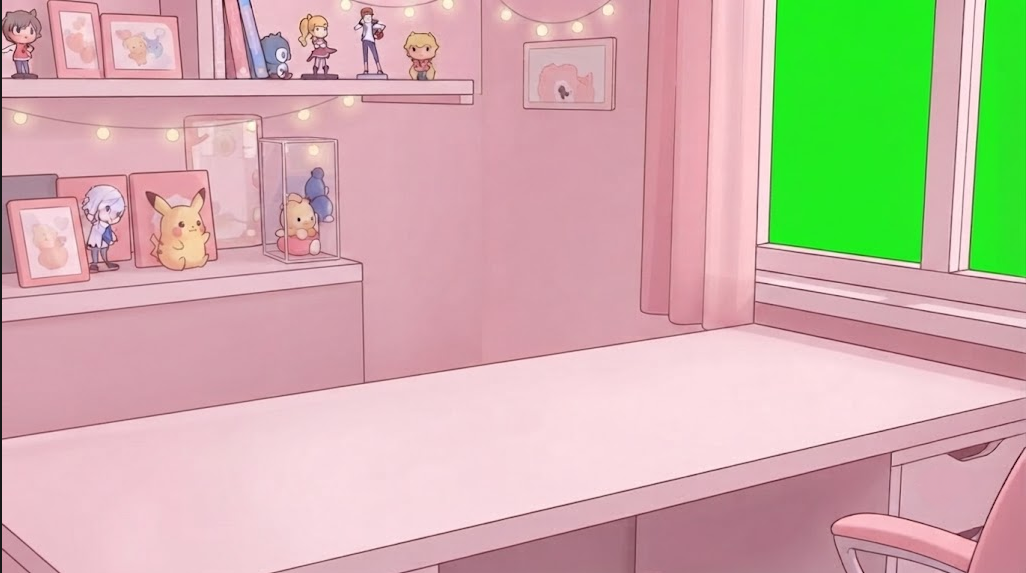
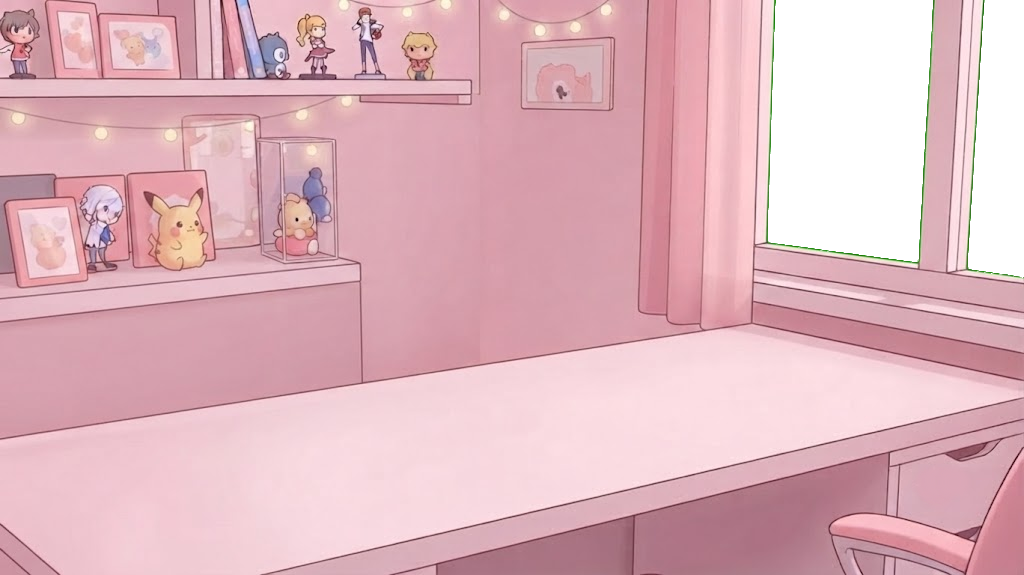
Add files via upload

diff --git a/index.html b/index.html
@@ -57,18 +57,16 @@
             100% { opacity: 0; transform: scale(0.5); }
         }
 
-        /* --- PLANT GRAPHIC (BLUE SCREEN REMOVED VIA BLEND MODE) --- */
+        /* --- PLANT GRAPHIC (CLEAN TRANSPARENCY) --- */
         .plant-element {
             position: absolute;
-            bottom: -20px;
-            left: -20px;
+            bottom: 20px;
+            left: 20px;
             width: 380px;
             z-index: 3;
             pointer-events: none;
             transform-origin: bottom center;
             animation: swayPlant 4s infinite ease-in-out;
-            /* This strips out the blue background box from the image */
-            mix-blend-mode: screen;
         }
 
         @keyframes swayPlant {
@@ -115,7 +113,7 @@
 <body>
 
     <div class="scene">
-        <!-- Swaying Plant with Blue Screen Removed -->
+        <!-- Swaying Plant -->
         <img src="plant.png.png" alt="Plant" class="plant-element">
 
         <!-- Pop-up Text on the Monitor Screen -->
